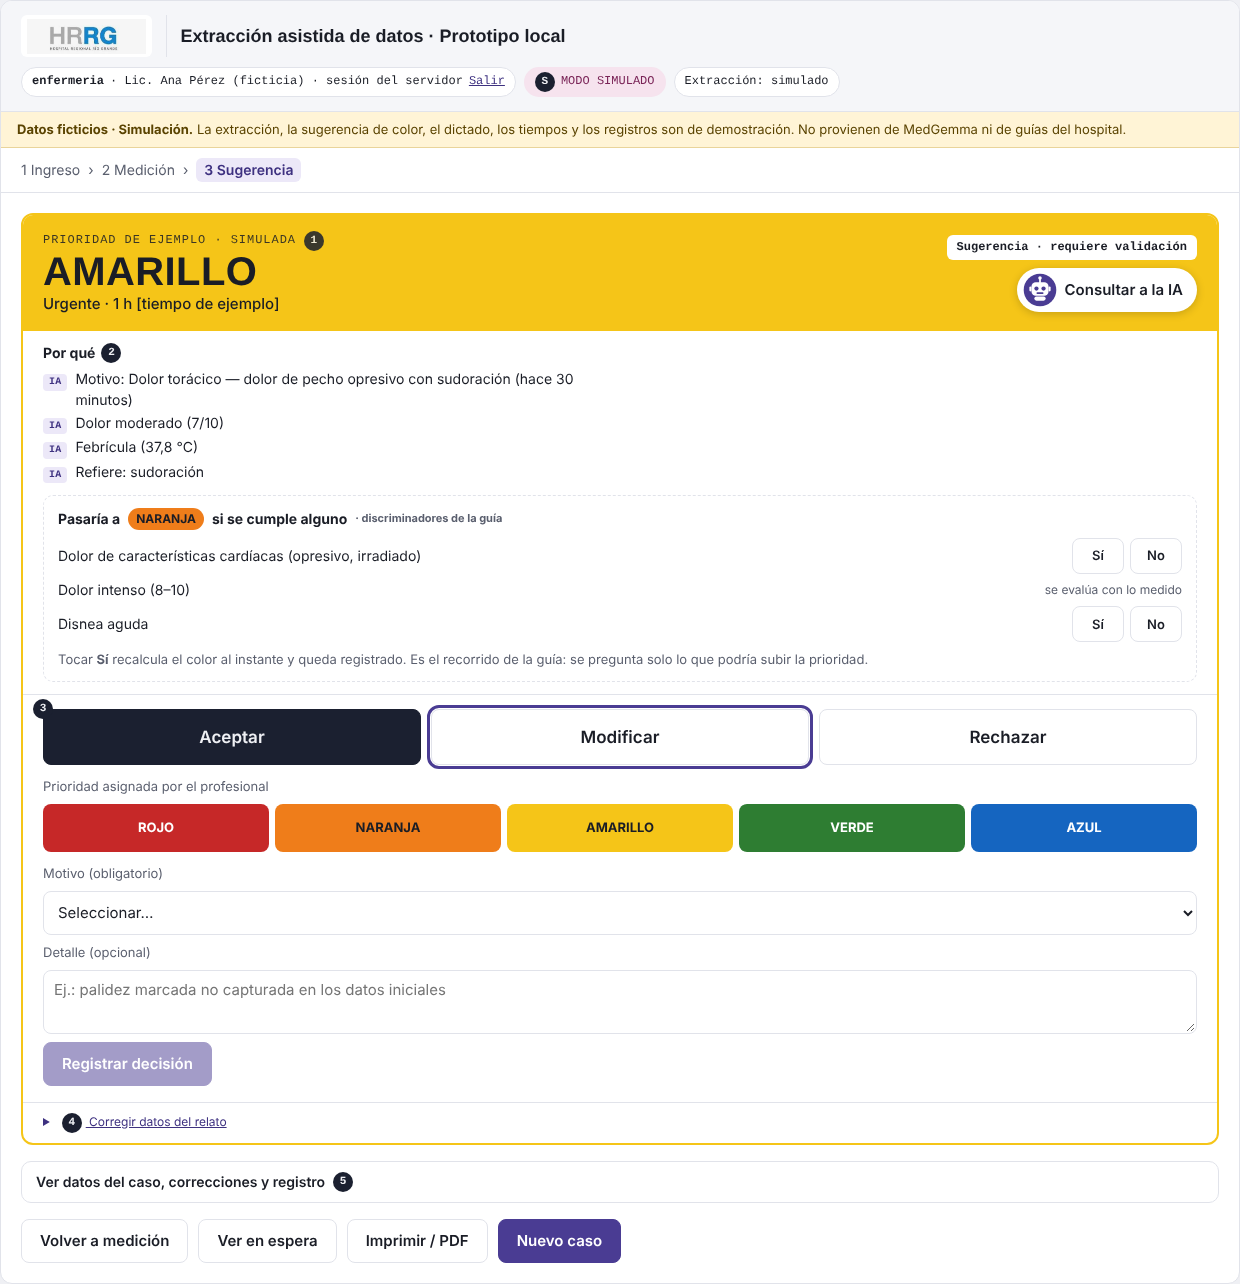
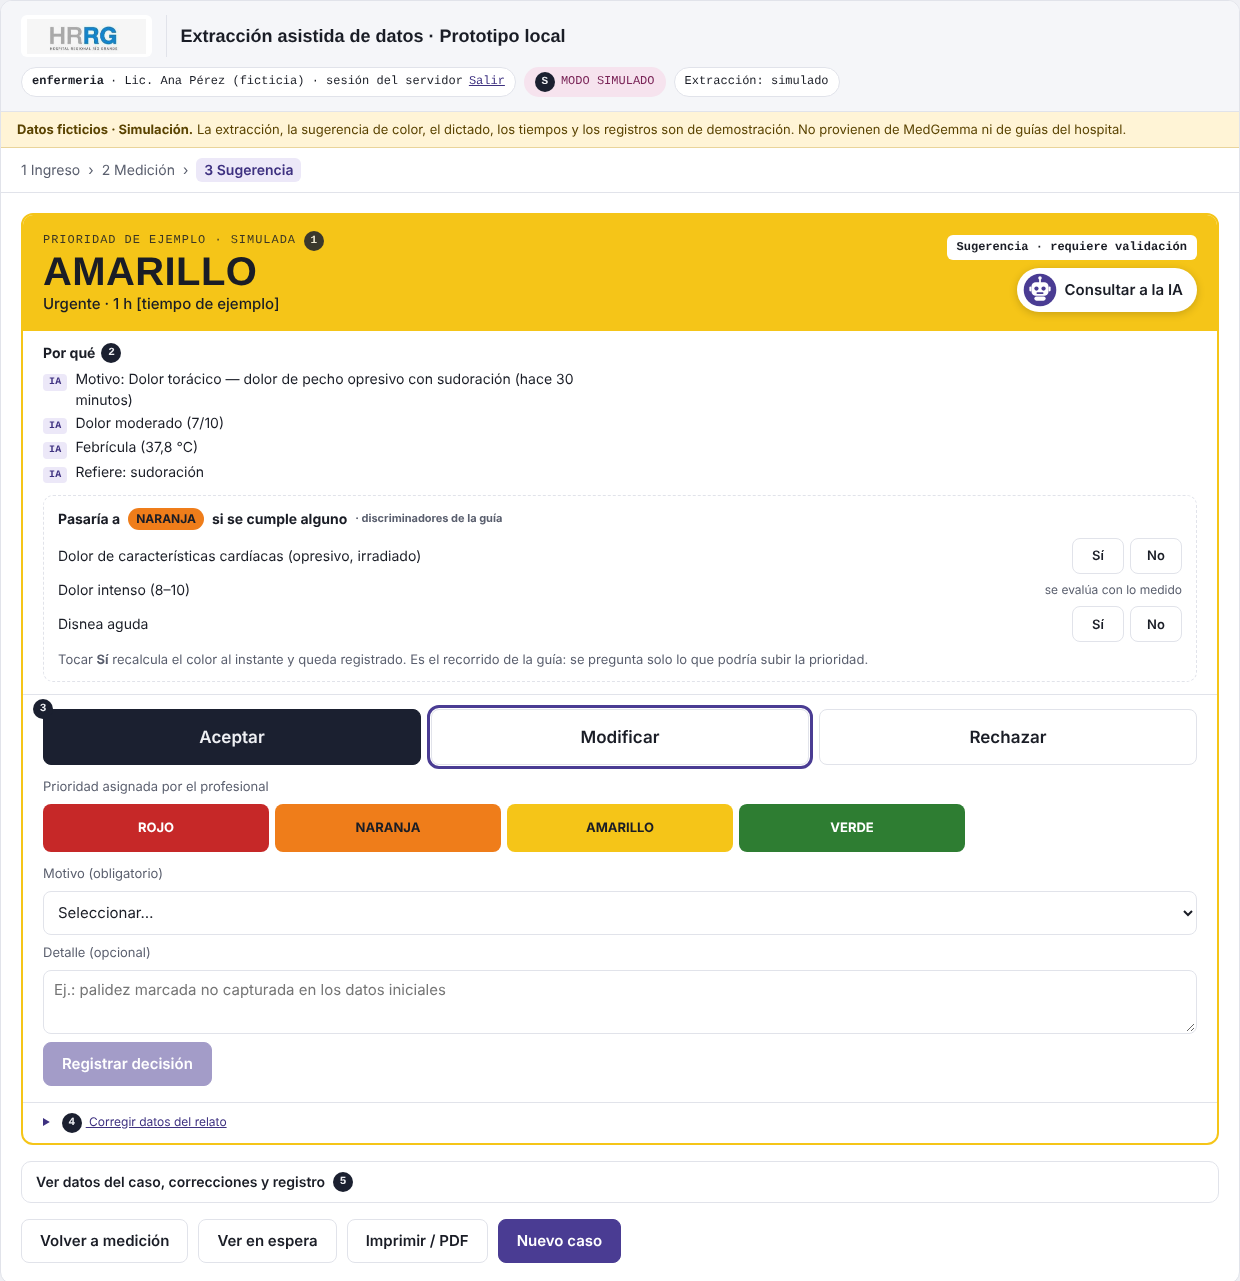
Manual actualizado y se saca el AZUL de la pantalla

diff --git a/frontend/sugerencia.js b/frontend/sugerencia.js
@@ -79,8 +79,8 @@ function medgemma(){
   if(t!=null&&t>=38.5){lv=Math.min(lv,2);why.push('Fiebre ('+r.temperatura+' °C)')}
   if(r.ant_diabetes)why.push('Diabetes'+(n('glucemia')>=250?' con glucemia '+r.glucemia+' mg/dL':''));
   if(r.sintomas_asociados)why.push('Refiere: '+r.sintomas_asociados.toLowerCase());
-  /* AZUL: la simulación ya no lo sugiere (reunión 21/10: en el HRRG el Azul se usa para casos como presos o
-     policiales, no por dolor leve). Queda solo como elección manual del profesional hasta confirmar el criterio. */
+  /* AZUL: no se sugiere ni se ofrece. Los casos policiales, judiciales o con custodia se registran como
+     "Condición especial" en el Ingreso, aparte del color clínico (recomendación de Navoni, HRRG, 29/10). */
   if(why.length===base)why.push('Sin discriminadores de mayor urgencia en los datos');
   return {lv,why};
 }
@@ -155,7 +155,10 @@ function renderSubir(){
 }
 $('#subir').addEventListener('click',e=>{const b=e.target.closest('.yn button');if(!b)return;const k=b.parentElement.dataset.key;
   st.disc[k]=st.disc[k]===b.dataset.a?undefined:b.dataset.a;if(st.disc[k]===undefined)delete st.disc[k];resetDecision();renderCard();renderReg()});
-$('#levels').innerHTML=LEVELS.map((L,i)=>'<button type="button" class="lvl" data-l="'+i+'" aria-pressed="false" style="background:var('+L[1]+');color:'+L[2]+'" title="'+L[3]+'">'+L[0]+'</button>').join('');
+/* [Barby 30/10] Solo los 4 colores clínicos. El AZUL se dejó de ofrecer (recomendación de Navoni, HRRG):
+   los casos policiales, judiciales o con custodia van como "Condición especial" en el Ingreso.
+   LEVELS conserva el AZUL solo para mostrar decisiones viejas que lo tengan. */
+$('#levels').innerHTML=LEVELS.slice(0,4).map((L,i)=>'<button type="button" class="lvl" data-l="'+i+'" aria-pressed="false" style="background:var('+L[1]+');color:'+L[2]+'" title="'+L[3]+'">'+L[0]+'</button>').join('');
 document.querySelectorAll('[data-d]').forEach(b=>b.addEventListener('click',()=>{
   const d=b.dataset.d;st.decision=null;st.level=null;renderCard();
   document.querySelectorAll('[data-d]').forEach(x=>x.setAttribute('aria-pressed',x===b));
@@ -167,12 +170,7 @@ document.querySelectorAll('[data-d]').forEach(b=>b.addEventListener('click',()=>
 }));
 $('#levels').addEventListener('click',e=>{const b=e.target.closest('.lvl');if(!b)return;st.level=+b.dataset.l;
   document.querySelectorAll('.lvl').forEach(x=>x.setAttribute('aria-pressed',x===b));
-  /* AZUL no es "menos grave": en el HRRG es una categoría especial (p. ej. casos policiales o judiciales).
-     Se confirma igual, pero con su propio texto y sin registrarlo como discrepancia de gravedad. */
-  const azul=st.level===4;
-  $('#lowerTxt').textContent=azul?'Confirmo asignar AZUL: categoría especial del HRRG (p. ej. caso policial o judicial), no una prioridad menor por gravedad. Criterio a confirmar con el hospital.'
-    :'Confirmo asignar una prioridad menor que la sugerida. Queda registrada como discrepancia.';
-  if(azul&&!$('#motivo').value)$('#motivo').value='Caso policial o judicial (categoría AZUL)';
+  $('#lowerTxt').textContent='Confirmo asignar una prioridad menor que la sugerida. Queda registrada como discrepancia.';
   $('#lowerOk').checked=false;$('#lowerBox').hidden=!(st.level>SUG);updReg()});
 function updReg(){
   const d=$('#registrar').dataset.d;let ok=!!$('#motivo').value;
@@ -182,7 +180,7 @@ function updReg(){
   $('#registrar').disabled=!ok;
 }
 $('#motivo').addEventListener('change',updReg);$('#lowerOk').addEventListener('change',updReg);
-const notaMenor=()=>st.level===4?' · Categoría AZUL (caso especial).':st.level>SUG?' · Discrepancia registrada.':'';
+const notaMenor=()=>st.level>SUG?' · Discrepancia registrada.':'';
 $('#registrar').addEventListener('click',()=>{
   const d=$('#registrar').dataset.d;st.decision=d;commit(st.level);$('#motivoForm').hidden=true;$('#modForm').hidden=true;$('#okMsg').hidden=false;
   $('#okMsg').innerHTML=d==='modificar'?'<b>Registrado.</b> Sugerencia '+LEVELS[SUG][0]+' modificada a '+LEVELS[st.level][0]+'. Motivo: '+esc($('#motivo').value)+notaMenor():'<b>Registrado.</b> Sugerencia rechazada. Clasificación manual: '+LEVELS[st.level][0]+'. Motivo: '+esc($('#motivo').value)+notaMenor();
@@ -193,7 +191,7 @@ function resetDecision(){st.decision=null;st.level=null;st.mlv=null;
   document.querySelectorAll('[data-d]').forEach(x=>x.setAttribute('aria-pressed','false'));document.querySelectorAll('.lvl').forEach(x=>x.setAttribute('aria-pressed','false'));
   $('#okMsg').hidden=true;$('#motivoForm').hidden=true;$('#modForm').hidden=true;$('#mOk').hidden=true;$('#mReg').disabled=true;}
 /* Clasificación manual sin IA */
-$('#mLevels').innerHTML=LEVELS.map((L,i)=>'<button type="button" class="lvl" data-m="'+i+'" aria-pressed="false" style="background:var('+L[1]+');color:'+L[2]+'">'+L[0]+'</button>').join('');
+$('#mLevels').innerHTML=LEVELS.slice(0,4).map((L,i)=>'<button type="button" class="lvl" data-m="'+i+'" aria-pressed="false" style="background:var('+L[1]+');color:'+L[2]+'">'+L[0]+'</button>').join('');
 $('#mLevels').addEventListener('click',e=>{const b=e.target.closest('[data-m]');if(!b)return;st.mlv=+b.dataset.m;$('#mLevels').querySelectorAll('.lvl').forEach(x=>x.setAttribute('aria-pressed',x===b));$('#mReg').disabled=false});
 $('#mReg').addEventListener('click',()=>{commit(st.mlv);$('#mOk').hidden=false;$('#mOk').innerHTML='<b>Registrado.</b> Clasificación manual '+LEVELS[st.mlv][0]+', sin asistencia IA.';renderReg()});
 /* Chat "Consultar a la IA": con servidor responde MedGemma local (js/chat_ia.js), no la simulación. */

diff --git a/frontend/formulario.html b/frontend/formulario.html
@@ -153,7 +153,7 @@
             </div>
             <div class="form" id="motivoForm" hidden>
               <label for="motivo" class="hint">Motivo (obligatorio)</label>
-              <select id="motivo"><option value="">Seleccionar…</option><option>Signo clínico observado no capturado en los datos</option><option>Dato ingresado incorrecto</option><option>Criterio clínico del profesional</option><option>Caso policial o judicial (categoría AZUL)</option><option>Otro</option></select>
+              <select id="motivo"><option value="">Seleccionar…</option><option>Signo clínico observado no capturado en los datos</option><option>Dato ingresado incorrecto</option><option>Criterio clínico del profesional</option><option>Otro</option></select>
               <label for="detalle" class="hint">Detalle (opcional)</label>
               <textarea id="detalle" placeholder="Ej.: palidez marcada no capturada en los datos iniciales"></textarea>
               <label class="hint" id="lowerBox" hidden><input type="checkbox" id="lowerOk"> <span id="lowerTxt">Confirmo asignar una prioridad menor que la sugerida. Queda registrada como discrepancia.</span></label>

diff --git a/docs/frontend_cambios.md b/docs/frontend_cambios.md
@@ -160,6 +160,7 @@ Se actualizó según `backend/docs/controles_validacion.md` (C04 de Darío). Aho
 | 38 | **Cierre de sesión por inactividad** (pedido 28/10) ✅: 15 minutos sin uso. Aviso 1 minuto antes con **Seguir conectado**. Las listas que se actualizan solas ya no mantienen la sesión abierta. Al vencer, el ingreso muestra "La sesión se cerró por inactividad". | Pedido de Barby | A07 |
 | 39 | **Reglas del hospital** (pedido 28/10) ✅: perfil nuevo **Jefatura de Guardia** y pantalla `reglas.html` para crear, probar con un caso de ejemplo, activar, desactivar y editar reglas, con historial. Las reglas activas intervienen en la sugerencia desde el próximo paciente (`js/motor_reglas.js`), aparecen en el "Por qué" como **HRRG** y quedan en la decisión guardada. La Jefatura puede apagar las reglas de ejemplo del equipo. El auditor las ve en solo lectura. | Pedido de Barby | A09 |
 | 41 | **Dos endpoints para otros sistemas** (pedido 30/10) ✅: (1) `GET /api/sala/espera`, público y sin datos personales, para pantallas de la sala; se agregan `en_espera_desde` y `vencido`. (2) API de auditoría `/api/auditoria/...` con token propio (`HRRG_API_AUDITORIA_TOKEN`): lista y búsqueda de casos (DNI completo, el DNI va en el cuerpo), historial de cada episodio y exportación JSON, Excel o PDF (archivos protegidos con la clave que manda el sistema). Ver `docs/endpoints_externos.md`. | Pedido del HRRG | — |
+| 42 | **Se saca el AZUL de la pantalla** (30/10, recomendación de Navoni) ✅: en **Modificar** y en **Clasificar sin IA** quedan solo los 4 colores clínicos, y se sacó el motivo "Caso policial o judicial (categoría AZUL)". Los casos policiales, judiciales o con custodia se registran como **Condición especial** en el Ingreso (Darío, D4). Las decisiones viejas con AZUL se siguen mostrando en el historial. | Pedido de Barby | A09 |
 | 11 | Que un error de IA **no vuelva solo a la simulación** (revisar `frontend/js/medgemma.js` y `dictado.js` de Darío antes de activarlos: hoy no están cargados) | Acordar con Darío | A08 |
 
 **Reglas que se mantienen:** solo casos ficticios; nada se atribuye a MedGemma ni al HRRG mientras sea simulación; la decisión final es siempre del profesional.
